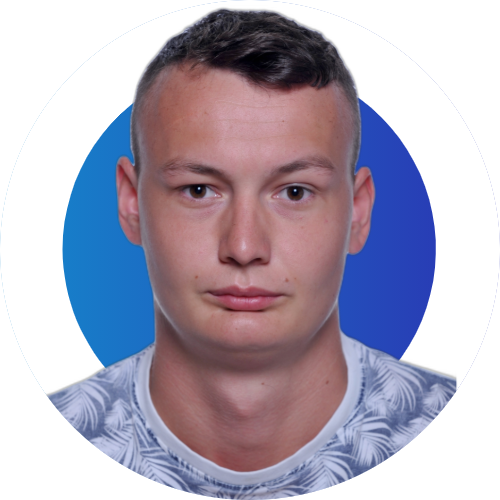
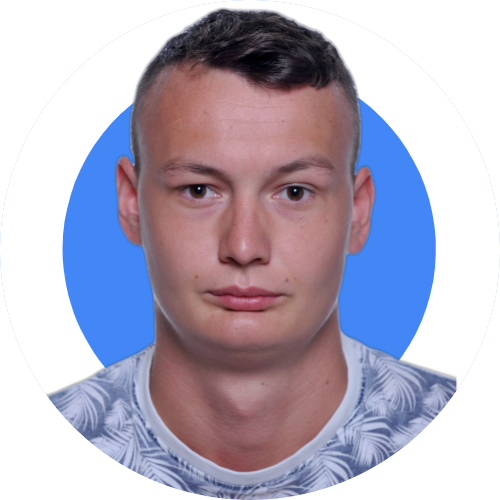
1

Changed region(s): [[0.66, 0.18, 0.87, 0.72], [0.12, 0.21, 0.33, 0.75]]

diff --git a/_layouts/home.html b/_layouts/home.html
@@ -131,7 +131,7 @@ layout: default
 
                           <div class="column">
                             <div class="card">
-                              <img src="nevtelenkep.jpg" alt="John" style="width:100%">
+                              <img src="profile-pic (1).png" alt="John" style="width:100%">
                               <div class="container">
                                 <h2>John Doe</h2>
                                 <p class="title">Designer</p>
